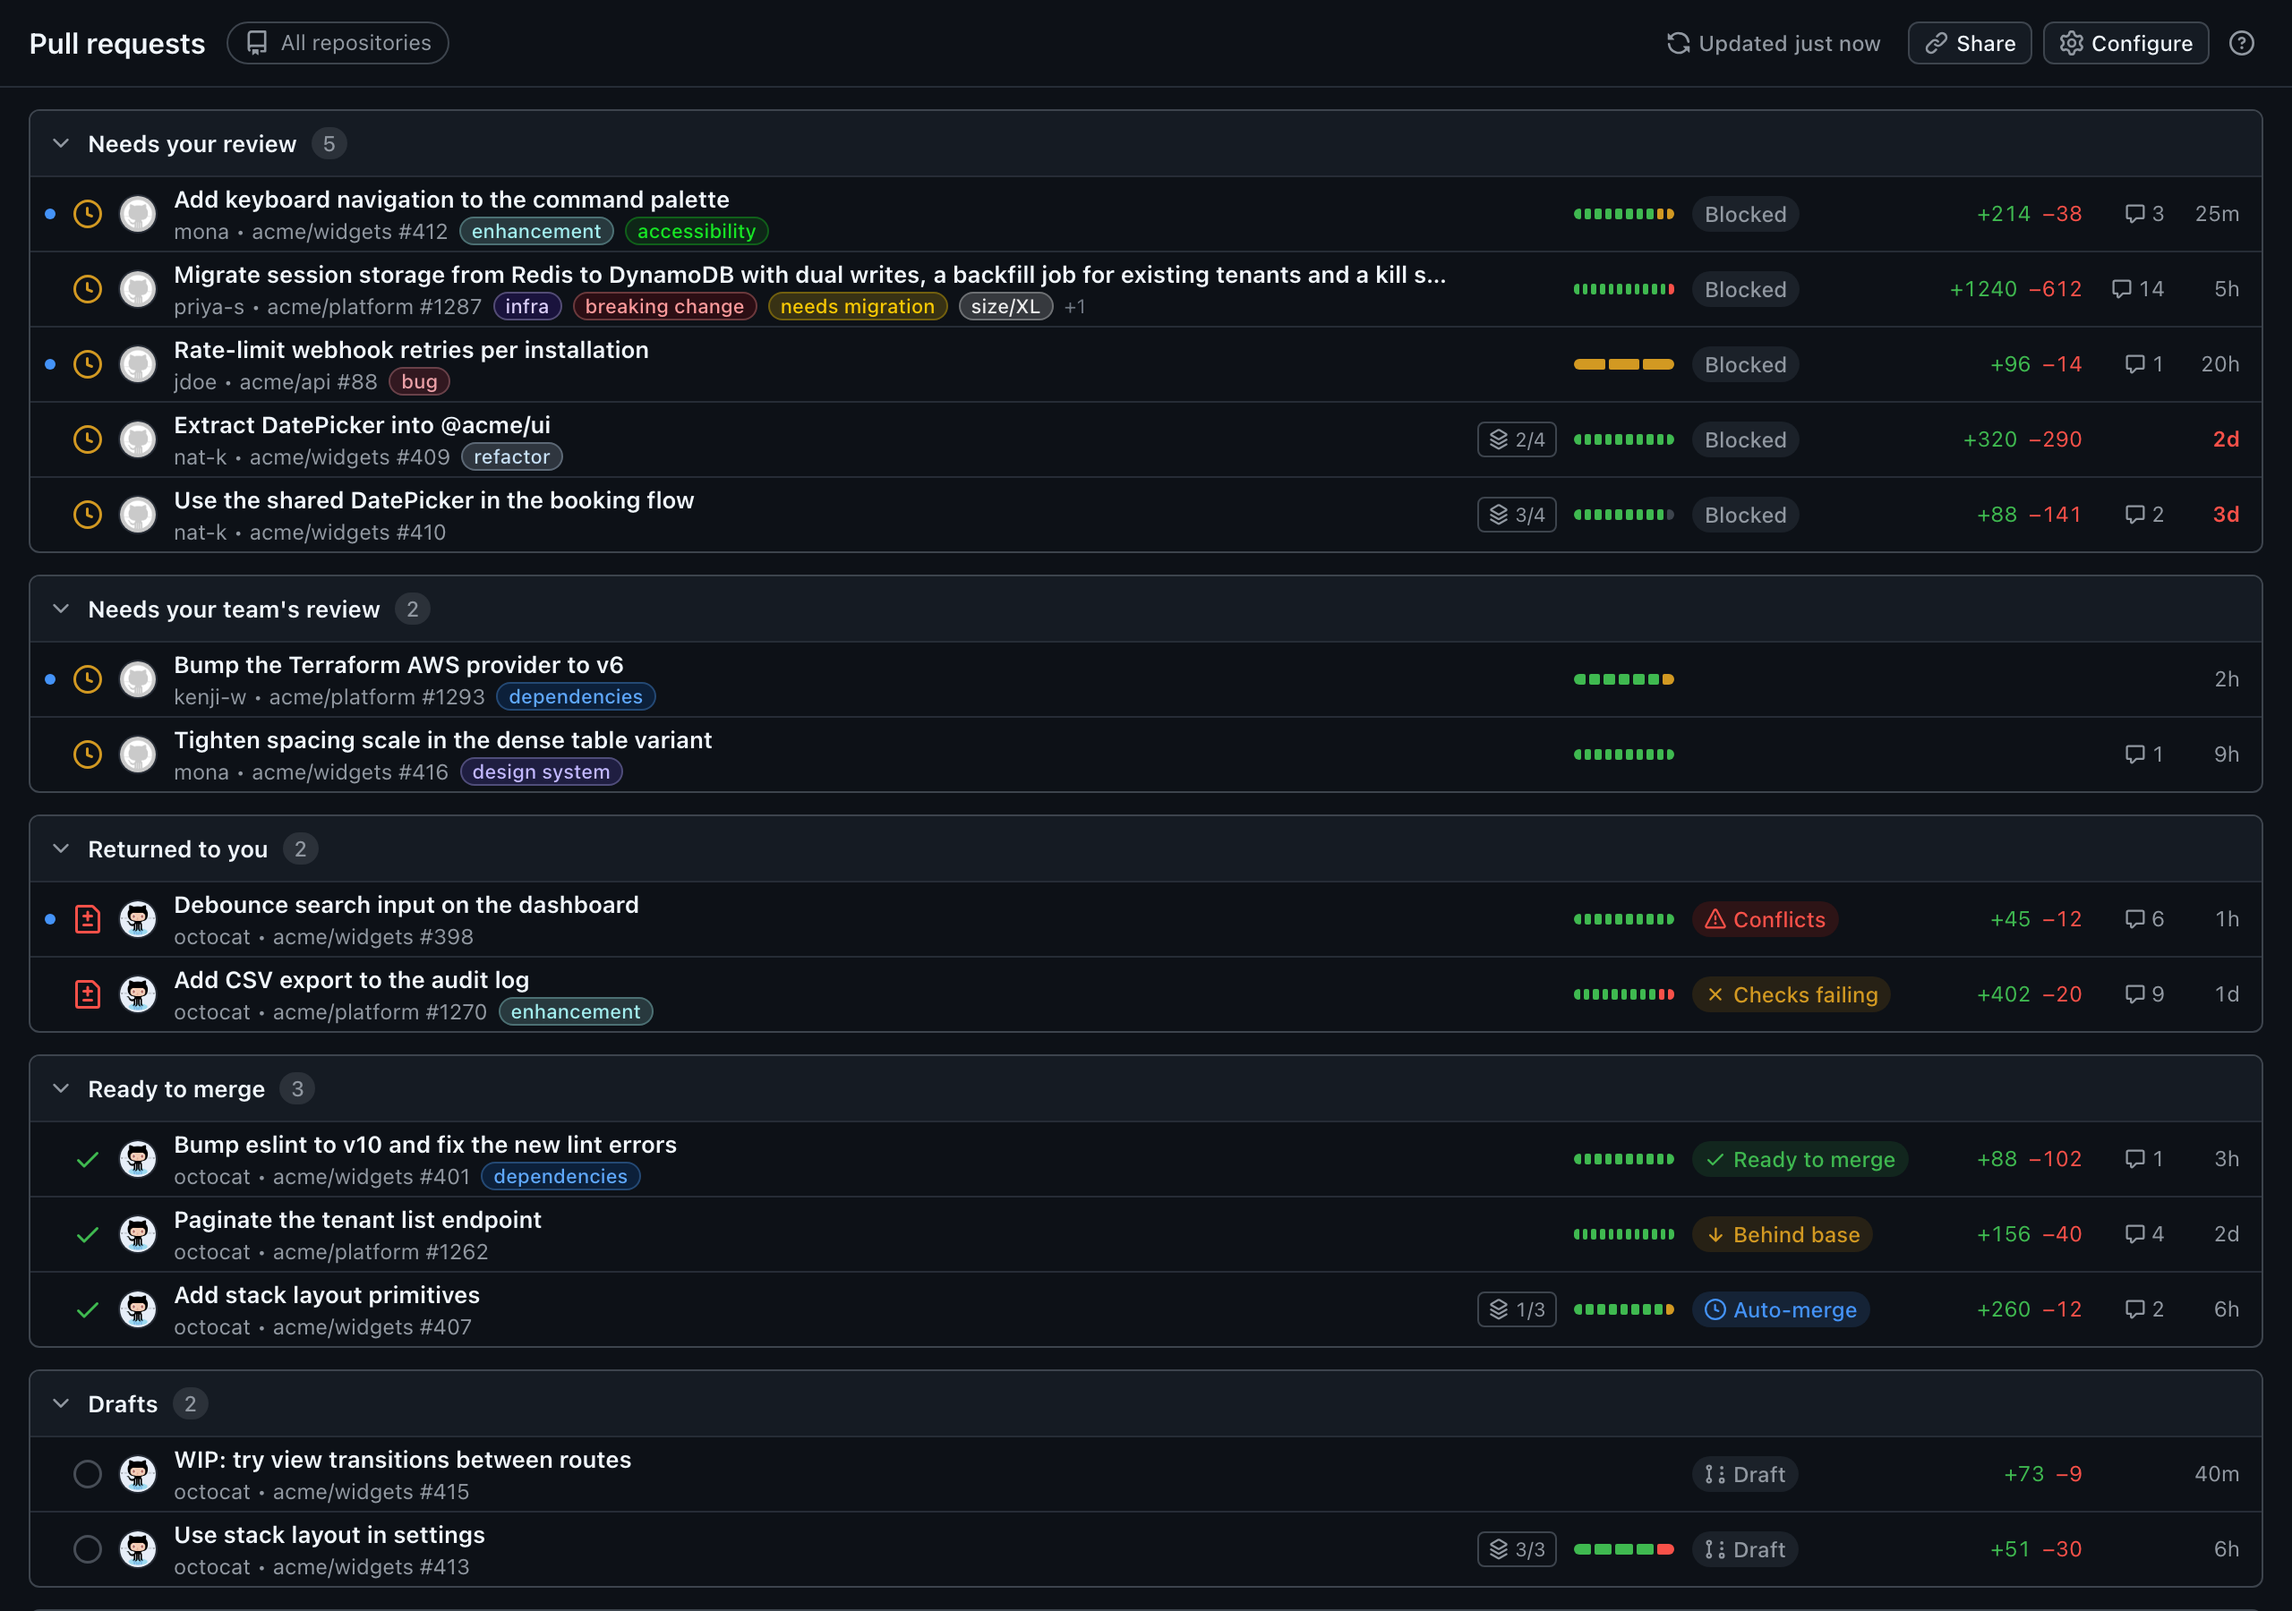
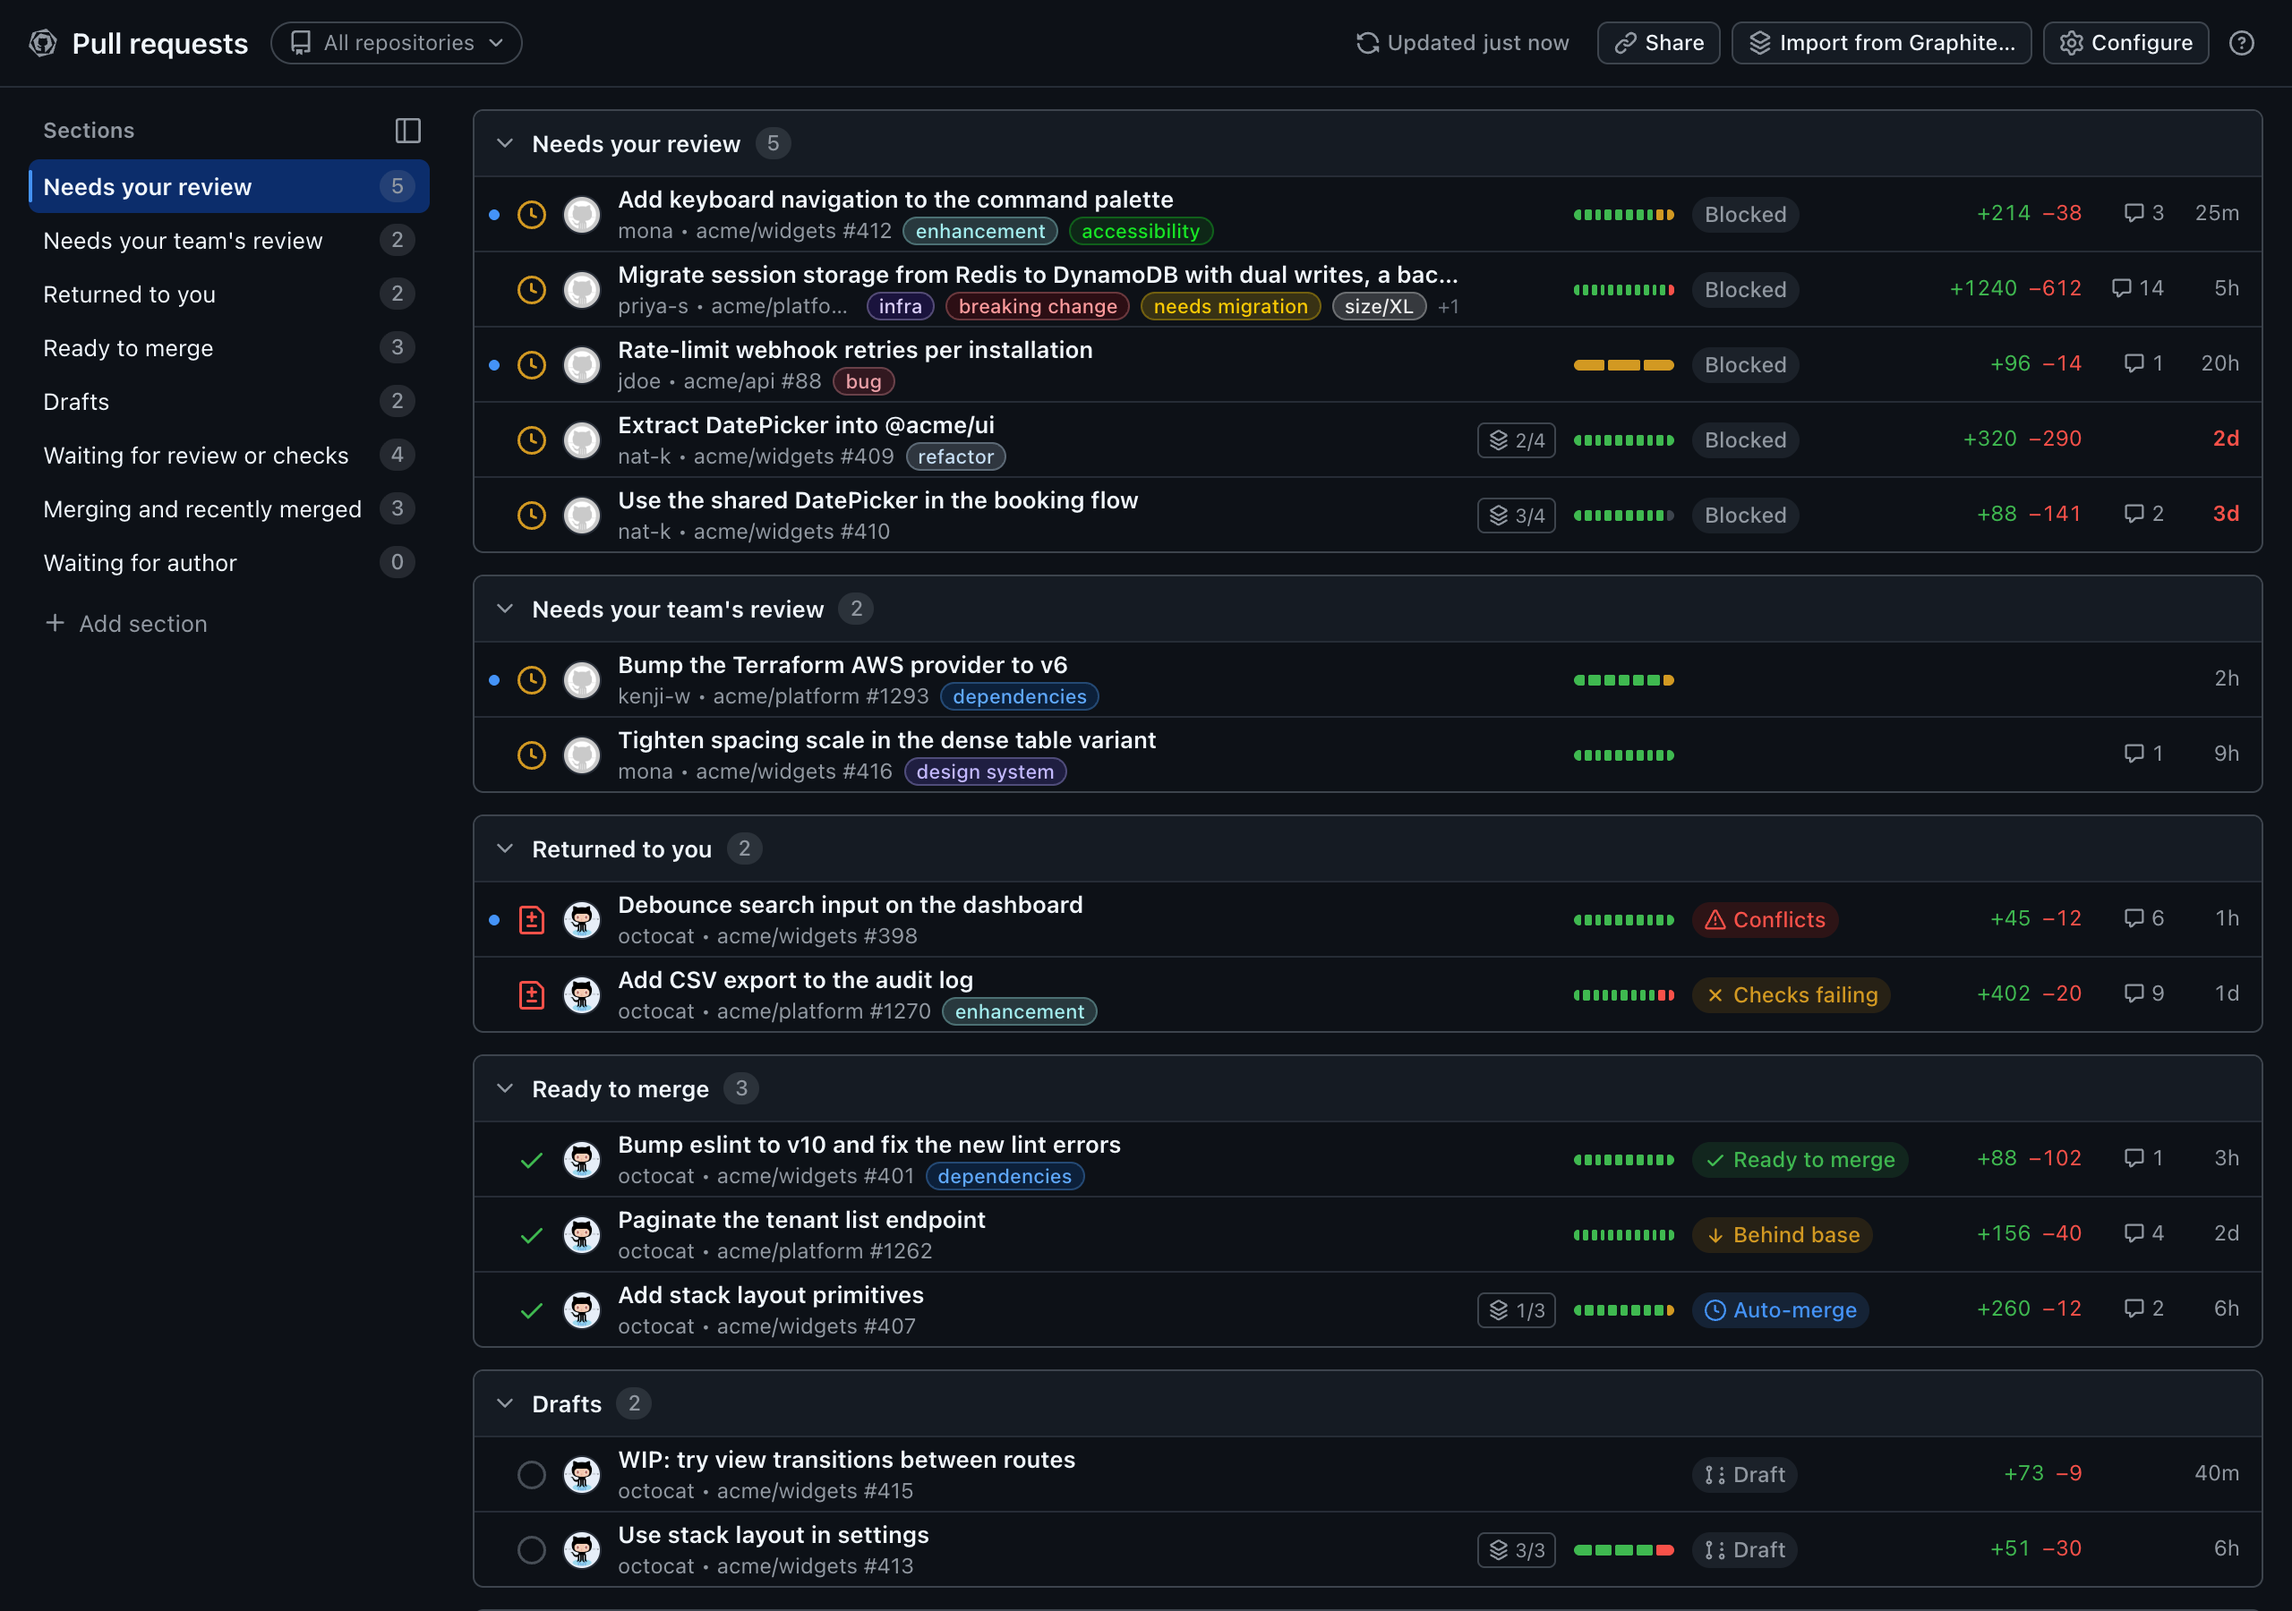
Show the sidebar, section editor and repository picker in the screenshots
The harness's "Waiting for author" view carries the user's own Graphite filter, so
the section editor opens on real rows there; the screenshots are retaken with the
sidebar, the editor (light and dark) and the repository picker.

diff --git a/src/fixtures/inbox.ts b/src/fixtures/inbox.ts
@@ -1,8 +1,9 @@
 // Inbox fixtures for the dev harness (`app.html?fixtures=1#/inbox`): every default view, covering each review, CI and
 // merge state a row can show, native stack positions, unread rows, long titles, labels and team reviewers. The viewer is
-// octocat. Ages are relative to page load so the harness always looks current. CI is a rollup without per-check
+// octocat. "Waiting for author" carries the filter it was imported from Graphite with, for the section editor. Ages are
+// relative to page load so the harness always looks current. CI is a rollup without per-check
 // detail, as GitHub's dashboard endpoints return it; the team-review rows also have no line counts and no merge state.
-import type { CheckState, CiSummary, PrSummary, UserRef, ViewResult } from '../lib/model';
+import type { CheckState, CiSummary, PrSummary, UserRef, View, ViewResult } from '../lib/model';
 import { DEFAULT_VIEWS } from '../lib/views';
 
 const NOW = Date.now();
@@ -19,9 +20,39 @@ const kenji: UserRef = { login: 'kenji-w', avatarUrl: 'https://avatars.githubuse
 const platformTeam: UserRef = { login: 'acme/platform-reviewers', avatarUrl: '', url: 'https://github.com/orgs/acme/teams/platform-reviewers' };
 const designTeam: UserRef = { login: 'acme/design-systems', avatarUrl: '', url: 'https://github.com/orgs/acme/teams/design-systems' };
 
+/**
+ * The user's own "Waiting for author" section, as the Graphite import saves it (src/lib/graphite-inbox.fixture.json).
+ * Above the fixtures, which read it as the module loads.
+ */
+const WAITING_FOR_AUTHOR: View = {
+  id: 'waiting-author',
+  name: 'Waiting for author',
+  query: 'is:pr is:open draft:false reviewed-by:@me -review-requested:@me -author:@me sort:updated-desc',
+  filter: {
+    groups: [
+      {
+        rules: [
+          { isNegated: false, conditions: [{ kind: 'CONSOLIDATED_PR_STATUS_IS', status: 'OPEN' }] },
+          { isNegated: true, conditions: [{ kind: 'CONSOLIDATED_PR_STATUS_IS', status: 'DRAFT' }, { kind: 'CONSOLIDATED_PR_STATUS_IS', status: 'MERGING' }] },
+          { isNegated: false, conditions: [{ kind: 'CLOSED_REVIEW_REQUEST_FROM', username: '@me' }] },
+          { isNegated: true, conditions: [{ kind: 'AUTHOR_IS', username: '@me' }] },
+        ],
+      },
+      {
+        rules: [
+          { isNegated: false, conditions: [{ kind: 'CONSOLIDATED_PR_STATUS_IS', status: 'OPEN' }] },
+          { isNegated: true, conditions: [{ kind: 'CONSOLIDATED_PR_STATUS_IS', status: 'DRAFT' }, { kind: 'CONSOLIDATED_PR_STATUS_IS', status: 'MERGING' }] },
+          { isNegated: false, conditions: [{ kind: 'APPROVED_BY', username: '@me' }] },
+          { isNegated: true, conditions: [{ kind: 'REOPENED_REVIEW_REQUEST_FOR', username: '@me' }] },
+        ],
+      },
+    ],
+  },
+};
+
 export const inboxFixtures: ViewResult[] = DEFAULT_VIEWS.map((view) => {
   const prs = prsFor(view.id);
-  return { view, prs, totalCount: prs.length, fetchedAt: new Date(NOW).toISOString() };
+  return { view: view.id === 'waiting-author' ? WAITING_FOR_AUTHOR : view, prs, totalCount: prs.length, fetchedAt: new Date(NOW).toISOString() };
 });
 
 function prsFor(viewId: string): PrSummary[] {

diff --git a/src/inbox/SectionEditor.tsx b/src/inbox/SectionEditor.tsx
@@ -72,7 +72,7 @@ export function SectionEditor({
     setProblem(null);
   }
 
-  function useFilters() {
+  function buildWithFilters() {
     setGroups(setAside ?? [newFilterGroup()]);
     setProblem(null);
   }
@@ -204,7 +204,7 @@ export function SectionEditor({
                     A GitHub search (<code>@me</code> is you, <code>{'{{7d}}'}</code> seven days ago; <code>repo:</code> terms search those repositories instead of
                     the inbox's) or one of GitHub's inbox sections, such as <code>inbox:{GITHUB_INBOX_FILTERS[0]}</code>.
                   </p>
-                  <Button size="sm" onClick={useFilters}>
+                  <Button size="sm" onClick={buildWithFilters}>
                     {setAside ? 'Back to the filters' : 'Use filters instead'}
                   </Button>
                 </div>

diff --git a/src/app/data-source.ts b/src/app/data-source.ts
@@ -76,7 +76,8 @@ export interface Fixtures {
 
 /** Serves fixture data and logs mutations; settings live in memory. */
 export function createFixtureDataSource(fixtures: Fixtures): DataSource {
-  let settings: Settings = { ...DEFAULT_SETTINGS };
+  // The fixtures' own views, which may carry Graphite filters the defaults do not.
+  let settings: Settings = { ...DEFAULT_SETTINGS, views: fixtures.inbox.map((result) => result.view) };
   const listeners = new Set<(settings: Settings) => void>();
   const log = async (...args: unknown[]) => {
     console.info('[fixtures] mutation', ...args);
